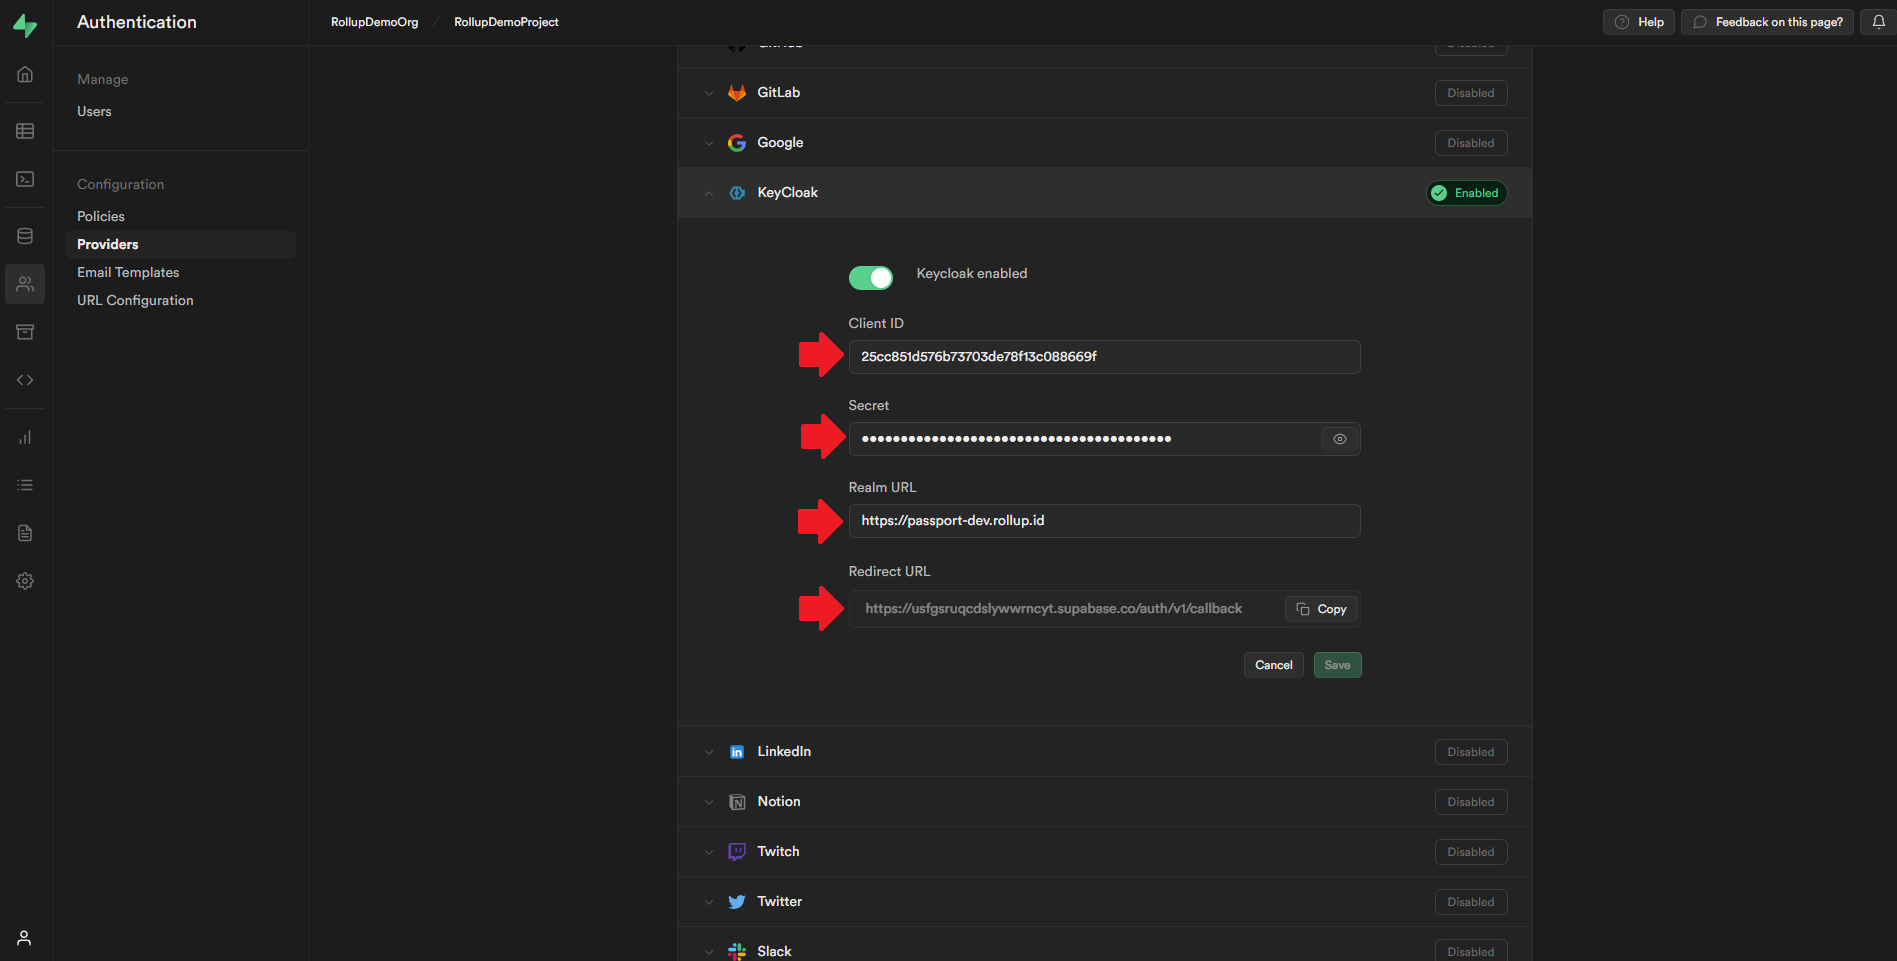
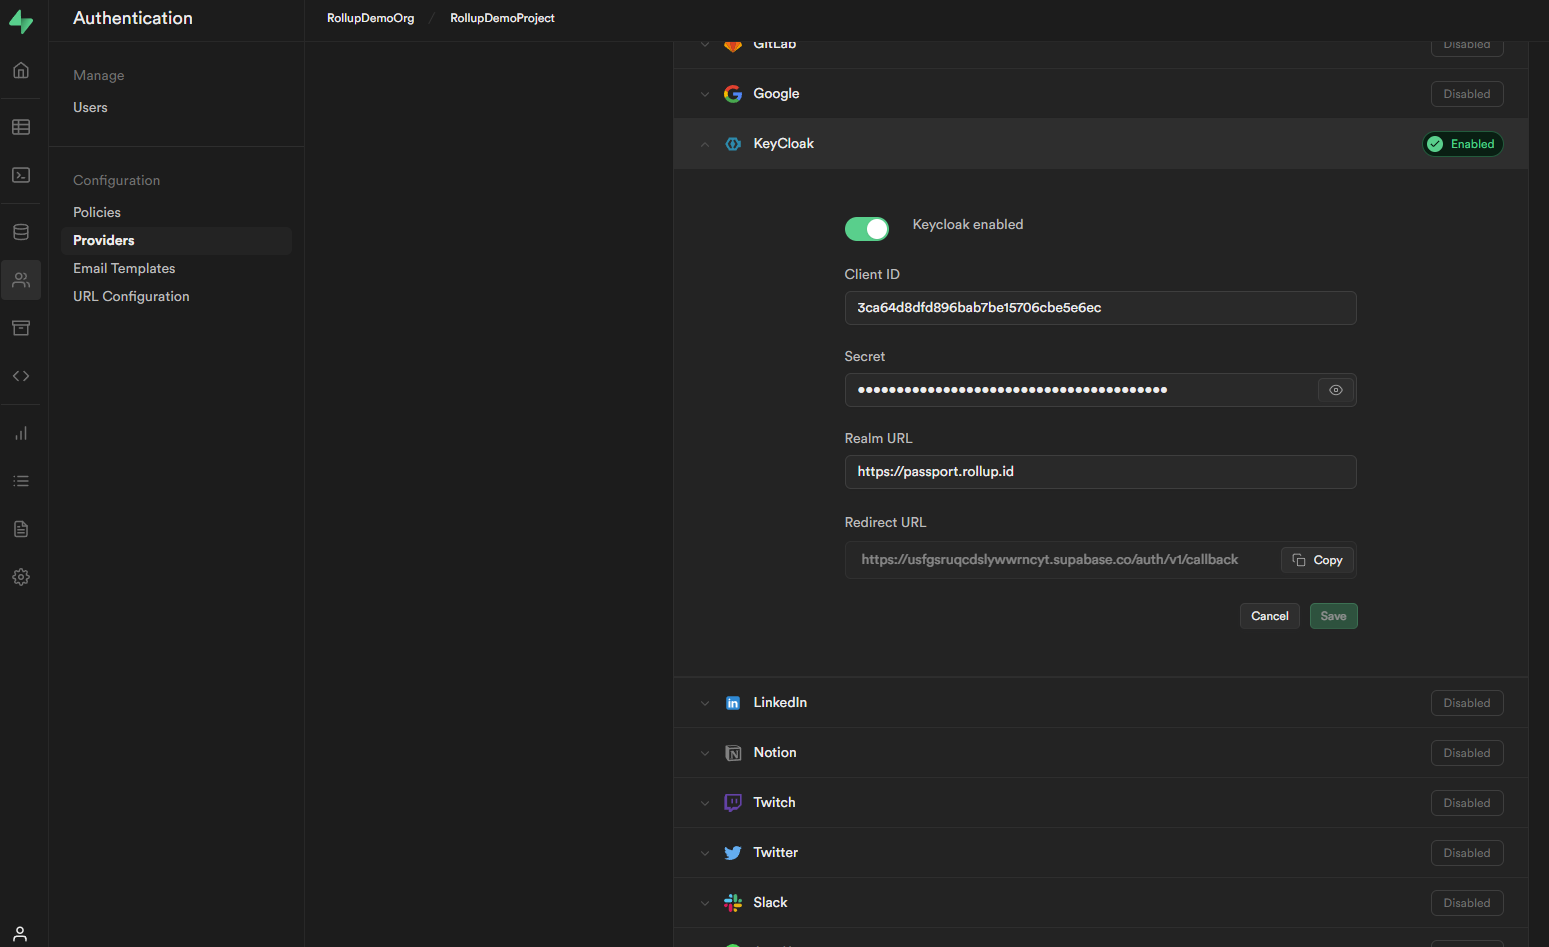
docs(passport): Update Keycloak docs.

diff --git a/docs/guides/setup-with-supabase.md b/docs/guides/setup-with-supabase.md
@@ -30,6 +30,8 @@ Save and publish your application.
 
 Within Supabase, select "Authentication" and then under "Configuration" select "Providers" and open "Keycloak".
 
+Enable Keycloak.
+
 Update your Keycloak configuration's Client ID and secret with the values from your Rollup Console Application.
 
 Set your Keycloak Realm to `https://passport.rollup.id` (the screenshot below shows our development environment).
